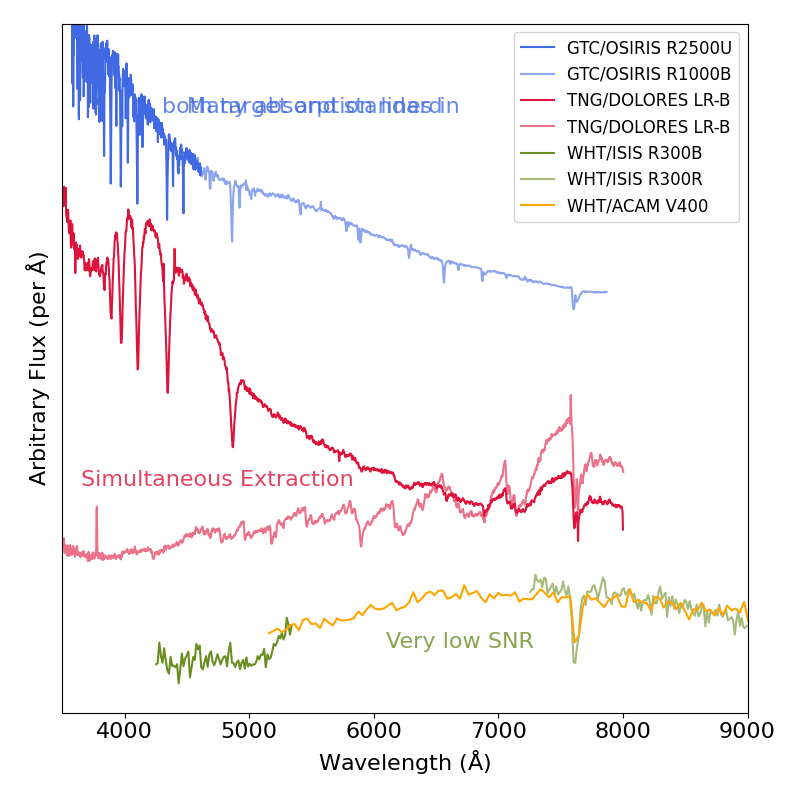
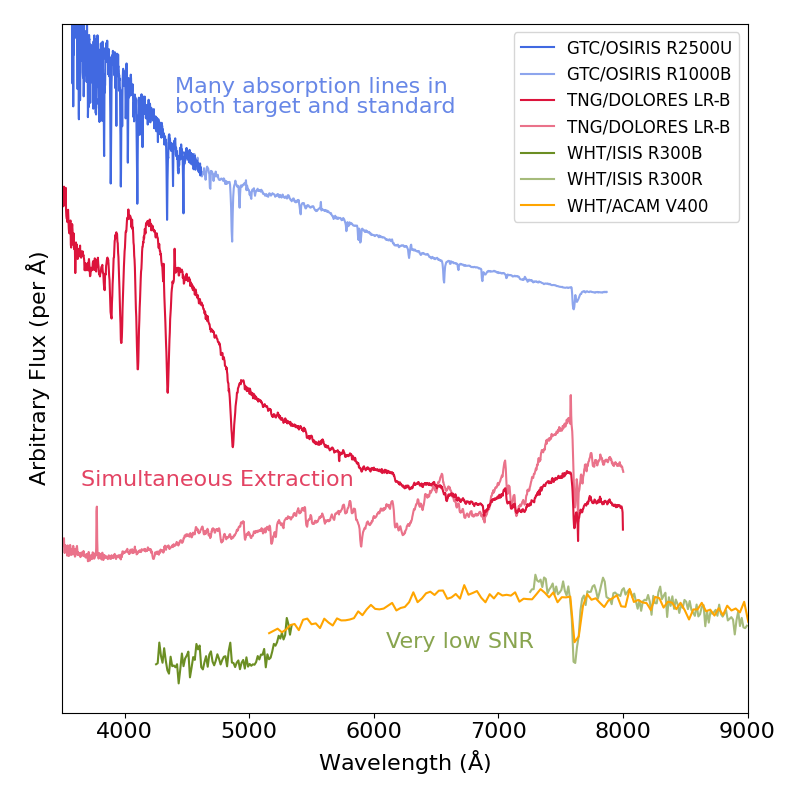
fixed text in plot in wrong place...

Changed region(s): [[0.1875, 0.0938, 0.5938, 0.1562]]

diff --git a/fig_09_use_case_plot.py b/fig_09_use_case_plot.py
@@ -192,10 +192,10 @@ plt.plot(
     label="GTC/OSIRIS R1000B",
 )
 plt.text(
-    4500, 6.1e-14, "Many absorption lines in", color="royalblue", alpha=0.8
+    4400, 6.3e-14, "Many absorption lines in", color="royalblue", alpha=0.8
 )
 plt.text(
-    4300, 6.1e-14, "both target and standard", color="royalblue", alpha=0.8
+    4400, 6.1e-14, "both target and standard", color="royalblue", alpha=0.8
 )
 
 # DOLORES
